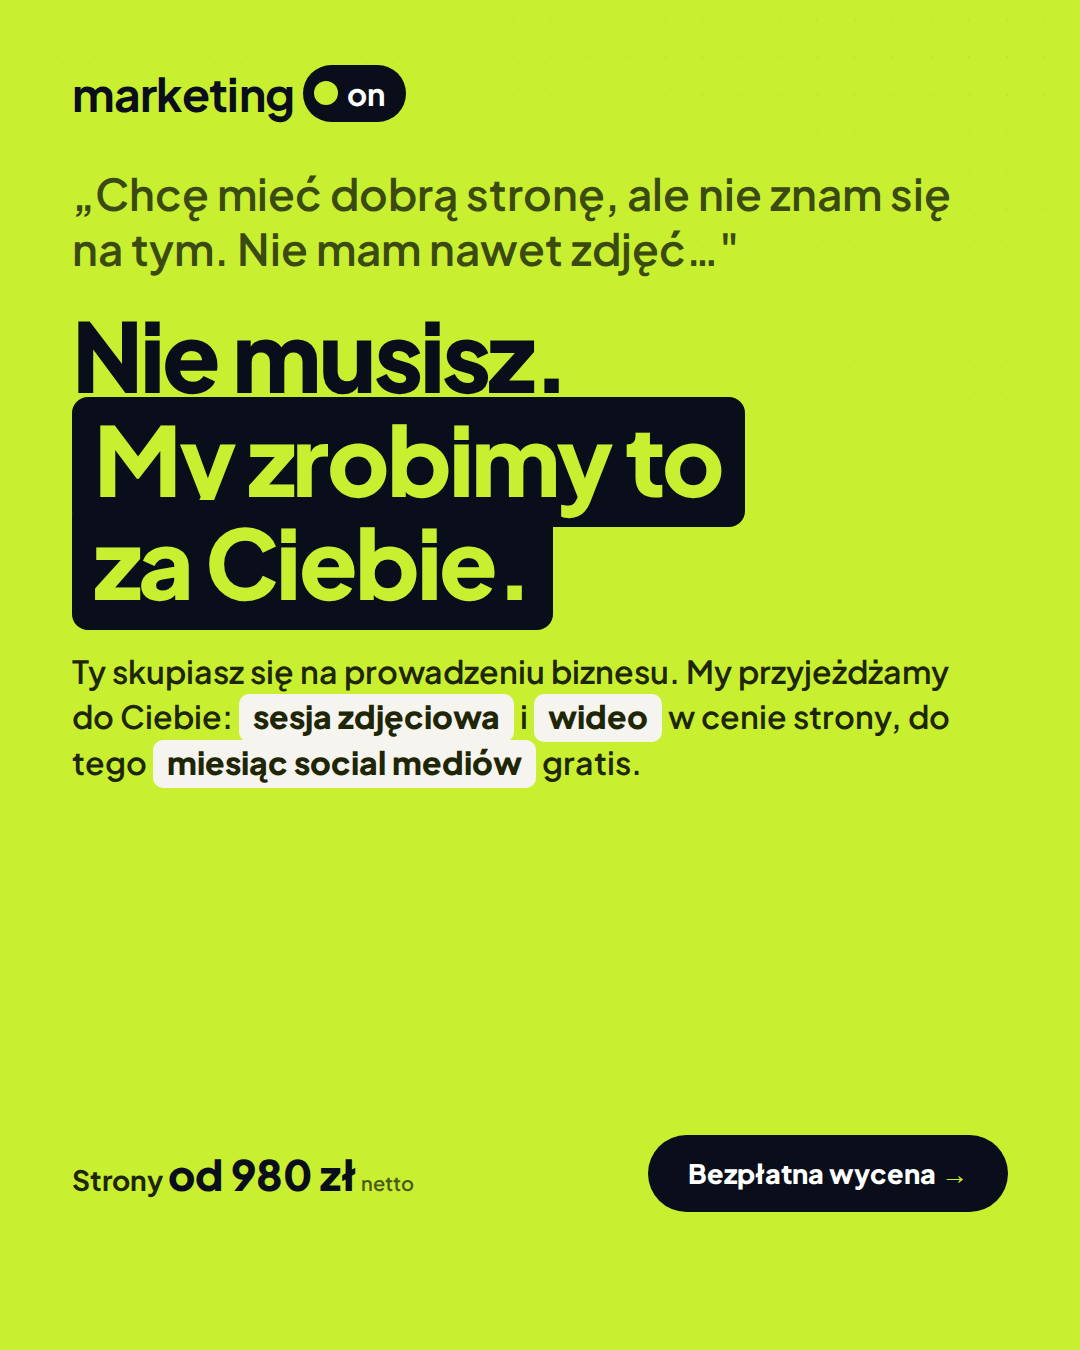
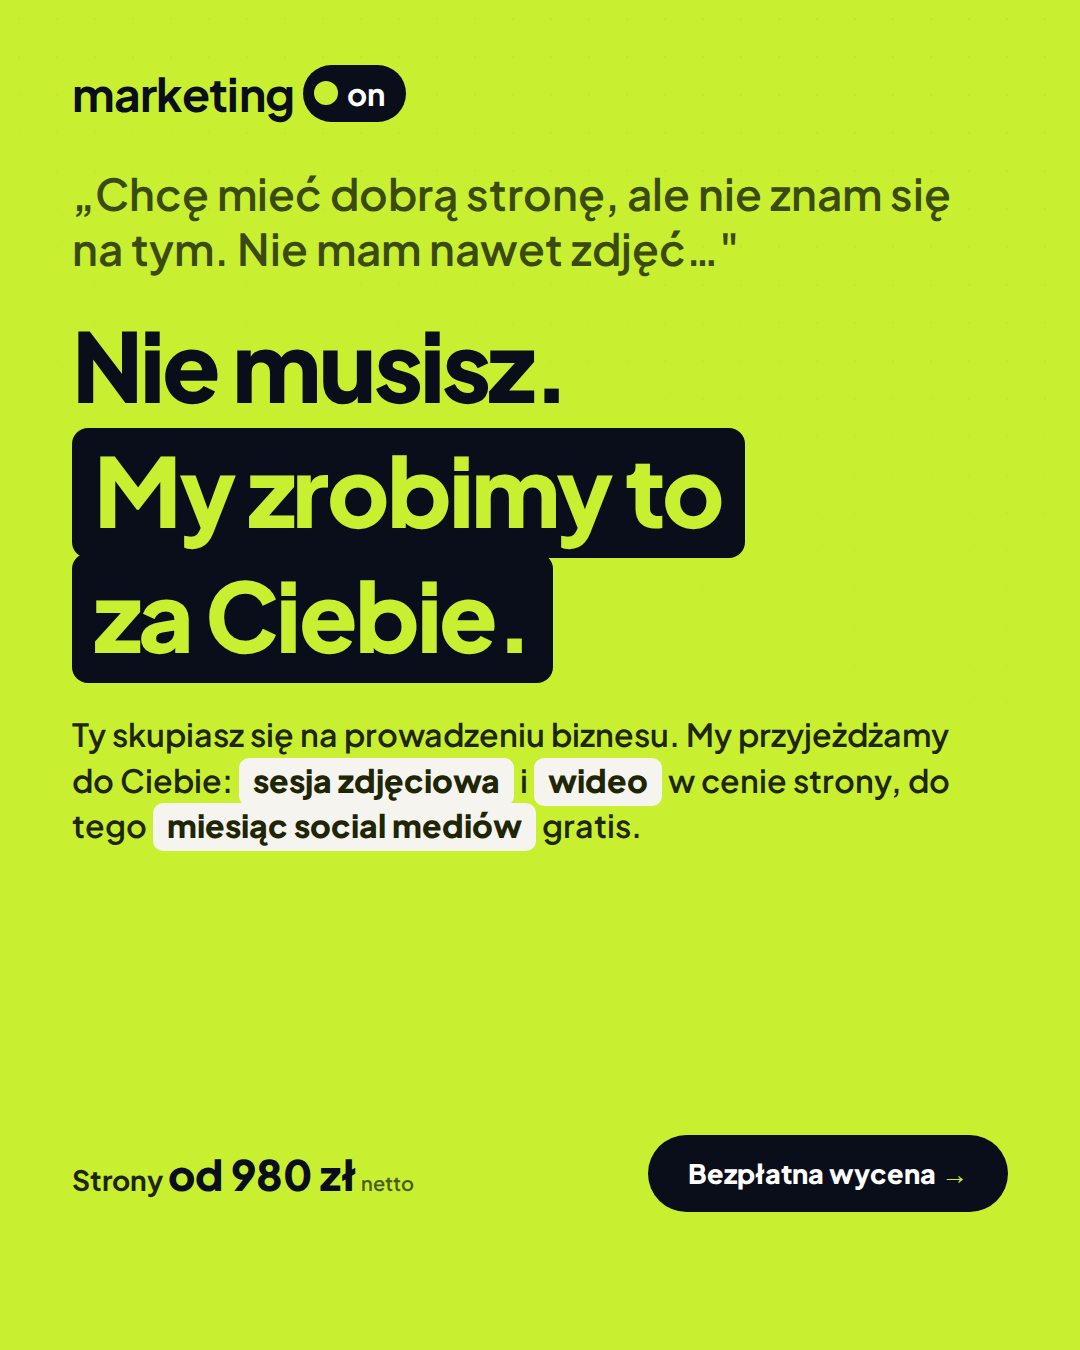
Napraw uciete dolne nozki liter w hasle reklamy 4
Wieksza interlinia klonowanych blokow naklejki — descendery 'y' juz nie
wchodza pod blok kolejnej linii. Odswiezone pliki w reklamy/mon/www/4.

Claude-Session: https://claude.ai/code/session_018cPE5fQDHkGpK74B5CtJMV

Changed region(s): [[0.0611, 0.2178, 0.8861, 0.6533], [0.0611, 0.2178, 0.0917, 0.2489]]

diff --git a/ads/prop4-typograficzna.html b/ads/prop4-typograficzna.html
@@ -20,8 +20,8 @@
   .q .quote{font-size:56px;font-weight:600;line-height:1.25;color:#3A4A10}
   .q .quote::before{content:"„"}
   .q .quote::after{content:""}
-  .big{position:relative;font-weight:800;letter-spacing:-.03em;font-size:118px;line-height:1.08;margin-top:30px}
-  .big span{background:var(--ink);color:var(--lime);border-radius:20px;padding:0 30px 12px;
+  .big{position:relative;font-weight:800;letter-spacing:-.03em;font-size:118px;line-height:1.3;margin-top:30px}
+  .big span{background:var(--ink);color:var(--lime);border-radius:20px;padding:2px 30px 6px;
     -webkit-box-decoration-break:clone;box-decoration-break:clone}
   .sub{position:relative;margin-top:56px;font-size:40px;line-height:1.42;font-weight:600;color:#1E2606;max-width:880px}
   .sub b{background:var(--paper);border-radius:10px;padding:2px 14px 6px;white-space:nowrap}
